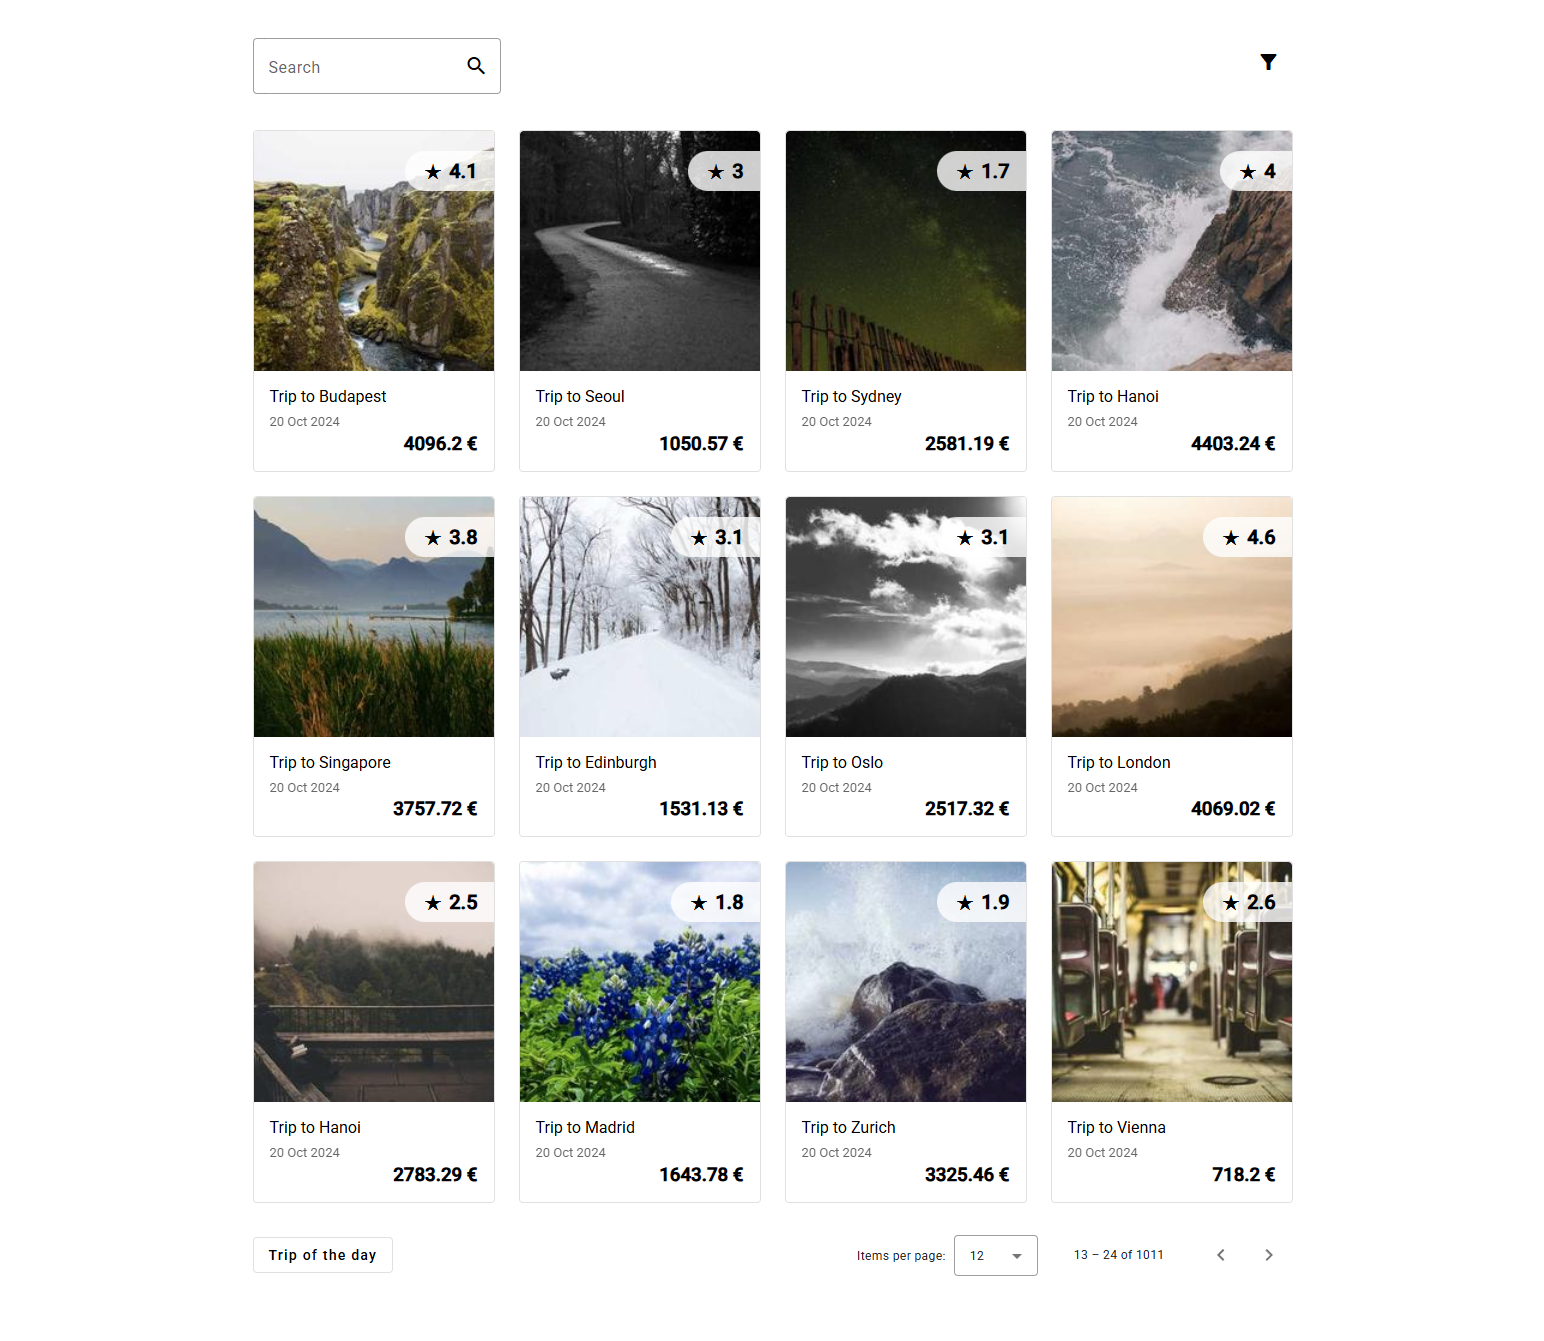
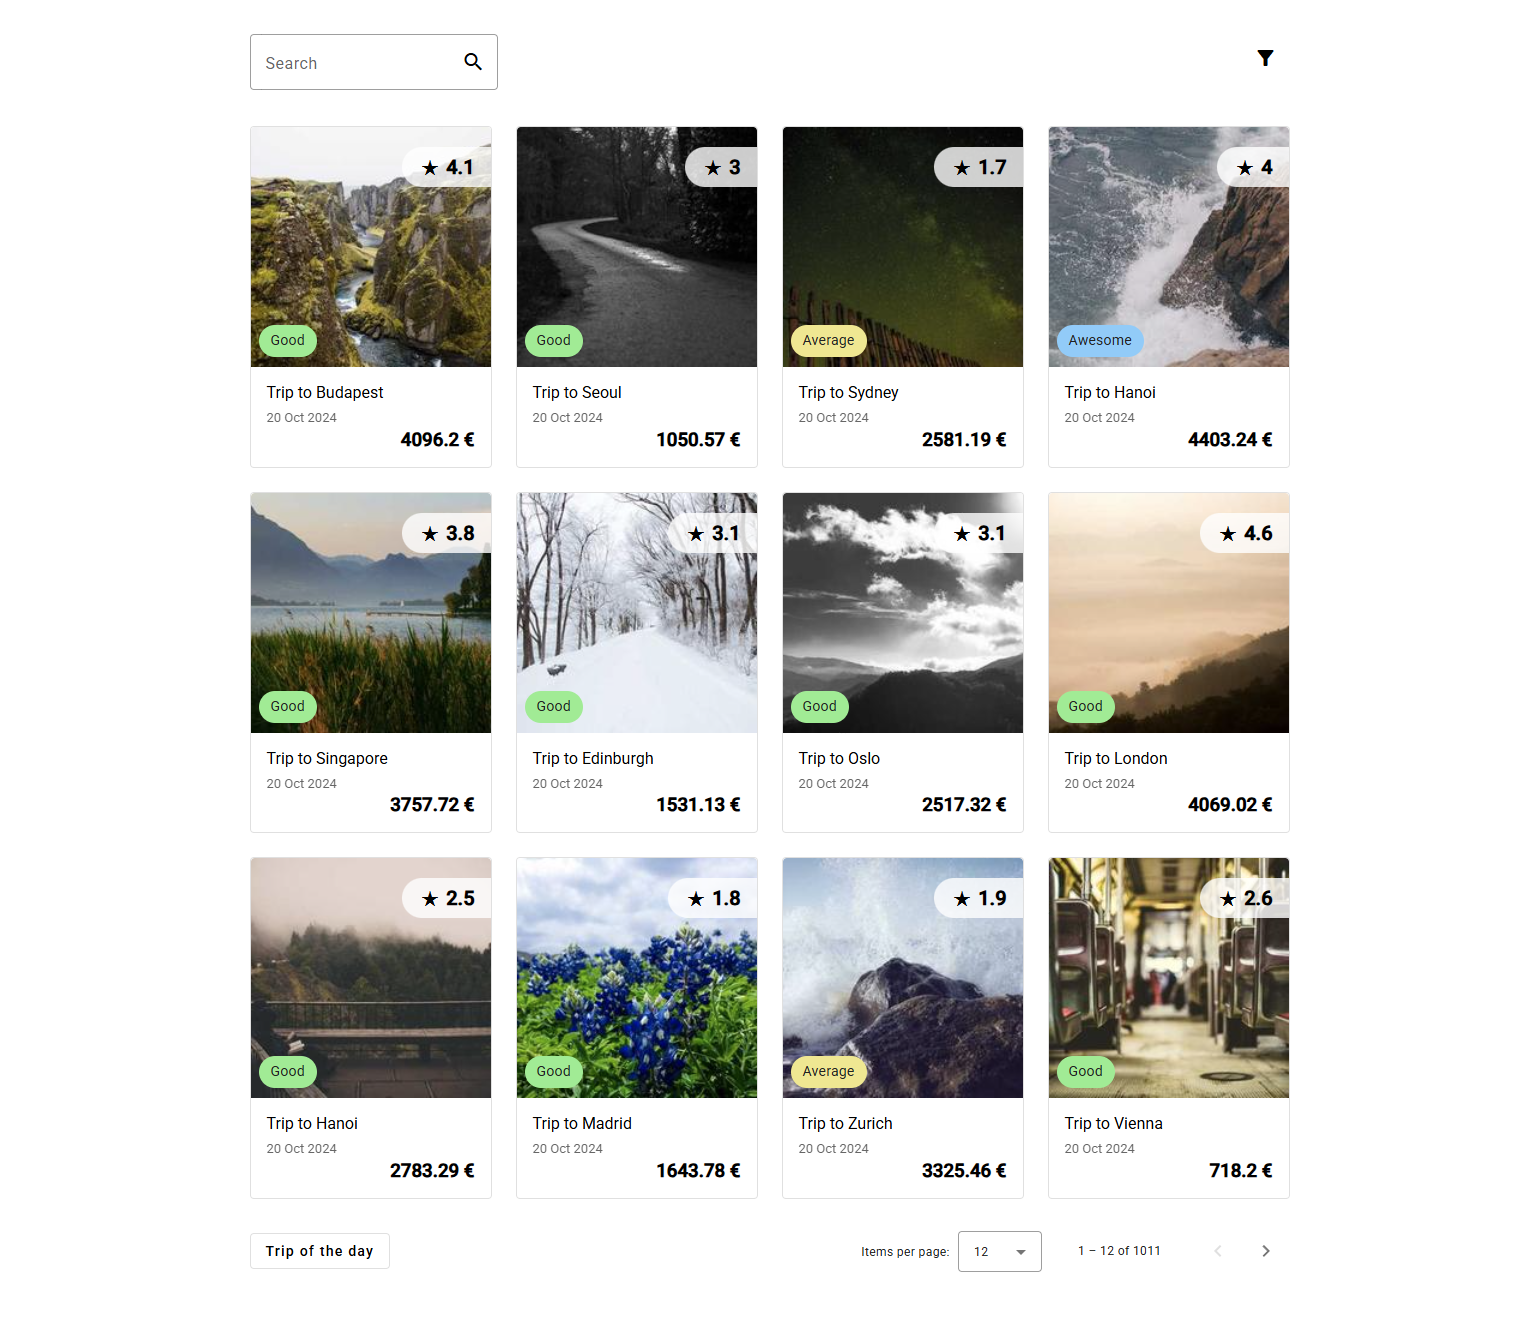
Latest commets + loader bug fix + update image

diff --git a/src/app/models/trip.model.ts b/src/app/models/trip.model.ts
@@ -32,7 +32,7 @@ export class TripAdapter implements Adapter<Trip> {
   /**
    * Creates a new Trip object from the API response
    *
-   * @param API item to adapt
+   * @param item API item to adapt
    * @returns Adapted item as a Trip object
    */
   adapt(item: any): Trip {
@@ -54,12 +54,24 @@ export class TripAdapter implements Adapter<Trip> {
     return trip;
   }
 
+  /**
+   * Calculates the trip score based on the ratings, number of them and the consumed co2
+   * 
+   * The formula is:
+   * ((rating / 5) + (rating / 5 * numberOfRatings / 1000) * .4) * .8 + -(co2 / 1000) * .2
+   * 
+   * 
+   * @param item API item to get score formula variables from
+   * @returns Trip score based on the defined formula
+   */
   private getTripScore(item: any) : TripScore {
+    // TO DO: Improve formula
+
     const rating = item.rating / 5;
     const nrOfRatings = item.nrOfRatings / 1000;
-    const ratingsScore = rating + (nrOfRatings * rating) * .4;
     const co2 = -(item.co2 / 1000);
-    const result = ratingsScore * .8 + co2 * .2;
+
+    const result = (rating + (nrOfRatings * rating) * .4) * .8 + co2 * .2;
     
     if (result > .7) {
       return 'awesome'

diff --git a/src/app/components/loader/loader.component.scss b/src/app/components/loader/loader.component.scss
@@ -1,7 +1,8 @@
 :host {
-    position: absolute;
-    top: 0;
-    left: 0;
+    position:fixed;
+    top:0;
+    left:0;
+    margin: auto;
     width: 100vw;
     height: 100vh;
     background-color: rgba(white, .4);
